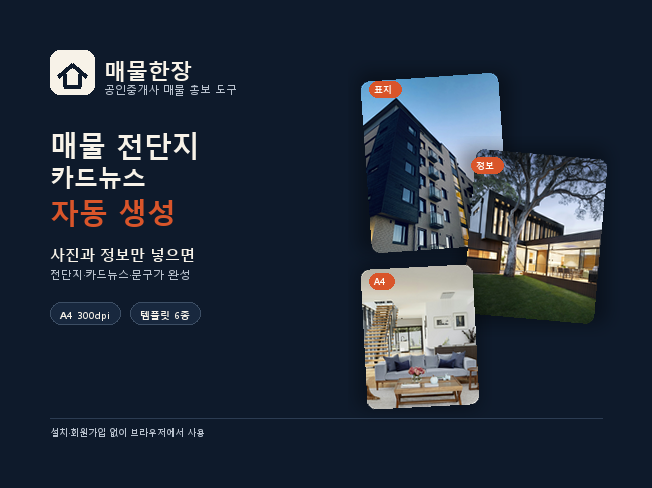
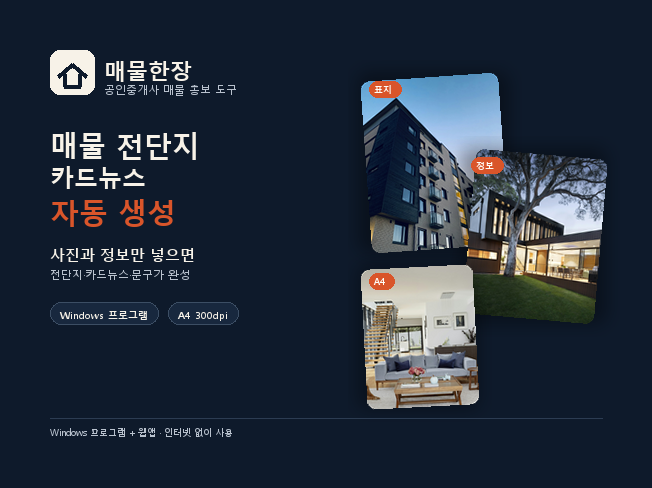
Polish program-focused copy and regenerate marketing images

Changed region(s): [[0.092, 0.6148, 0.3681, 0.6762], [0.0613, 0.8607, 0.3681, 0.8914]]

diff --git a/index.html b/index.html
@@ -3,8 +3,8 @@
 <head>
   <meta charset="utf-8">
   <meta name="viewport" content="width=device-width, initial-scale=1">
-  <title>매물한장 | 공인중개사 매물 전단지·카드뉴스 1분 완성</title>
-  <meta name="description" content="매물 사진과 정보만 넣으면 인스타 카드뉴스, A4 전단지, 문자·블로그 홍보 문구가 1분 만에 완성됩니다. 설치·회원가입 없이 브라우저에서 무료로 시작하세요.">
+  <title>매물한장 | 공인중개사 매물 전단지·카드뉴스 프로그램</title>
+  <meta name="description" content="매물 사진과 정보만 넣으면 인스타 카드뉴스, A4 전단지, 문자·블로그 홍보 문구를 만들 수 있습니다. Windows 프로그램은 인터넷 없이, 웹앱은 설치 없이 사용하세요.">
   <meta name="keywords" content="부동산 전단지, 매물 전단지, 부동산 카드뉴스, 공인중개사 마케팅, 매물 홍보 문구, 아파트 전단지 양식">
   <meta name="robots" content="index,follow">
   <link rel="canonical" href="https://sakata1311-jpg.github.io/maemulhanjang/">
@@ -12,12 +12,12 @@
   <meta property="og:locale" content="ko_KR">
   <meta property="og:site_name" content="매물한장">
   <meta property="og:title" content="매물한장 | 매물 사진 한 장으로, 오늘 올릴 전단지까지">
-  <meta property="og:description" content="인스타 카드뉴스, A4 전단지, 홍보 문구를 1분 만에. 공인중개사를 위한 매물 홍보 도구.">
+  <meta property="og:description" content="인스타 카드뉴스, A4 전단지, 홍보 문구를 한 번에. 공인중개사를 위한 매물 홍보 프로그램.">
   <meta property="og:url" content="https://sakata1311-jpg.github.io/maemulhanjang/">
   <meta property="og:image" content="https://sakata1311-jpg.github.io/maemulhanjang/assets/img/og.png">
   <meta name="twitter:card" content="summary_large_image">
   <meta name="twitter:title" content="매물한장 | 매물 사진 한 장으로, 오늘 올릴 전단지까지">
-  <meta name="twitter:description" content="인스타 카드뉴스, A4 전단지, 홍보 문구를 1분 만에.">
+  <meta name="twitter:description" content="인스타 카드뉴스, A4 전단지, 홍보 문구를 한 번에.">
   <meta name="twitter:image" content="https://sakata1311-jpg.github.io/maemulhanjang/assets/img/og.png">
   <meta name="theme-color" content="#0e1a2b">
   <link rel="icon" href="assets/img/favicon.svg" type="image/svg+xml">
@@ -82,13 +82,13 @@
         <div class="hero-copy">
           <div class="hero-badge"><span class="dot">1</span> 공인중개사를 위한 매물 홍보 도구 <span class="badge badge--accent">BETA</span></div>
           <h1>매물 사진 한 장으로,<br>오늘 올릴<br><em>전단지까지.</em></h1>
-          <p class="lead">매물 정보를 입력하면 인스타 카드뉴스, A4 전단지, 문자·블로그 홍보 문구가 1분 만에 완성됩니다. 설치도, 회원가입도 필요 없습니다.</p>
+          <p class="lead">매물 정보를 입력하면 인스타 카드뉴스, A4 전단지, 문자·블로그 홍보 문구가 자동으로 구성됩니다. Windows 프로그램은 인터넷 없이, 웹앱은 설치 없이 사용할 수 있습니다.</p>
           <div class="hero-actions">
             <a class="btn btn-primary btn-lg" href="app.html" data-track="cta_hero_primary" data-track-location="hero">무료로 만들어보기 <span class="arrow">→</span></a>
             <a class="btn btn-ghost btn-lg" href="templates.html" data-track="cta_template" data-track-location="hero">템플릿 둘러보기</a>
           </div>
           <ul class="hero-points">
-            <li>브라우저에서만 동작</li>
+            <li>Windows 프로그램 + 웹앱</li>
             <li>매물 정보 외부 전송 없음</li>
             <li>무료 플랜 제공</li>
           </ul>
@@ -109,7 +109,7 @@
               </div>
             </div>
           </div>
-          <div class="hero-sticker hero-sticker--one"><span class="ico">✓</span><span>1분 완성<small>정보 입력부터 저장까지</small></span></div>
+          <div class="hero-sticker hero-sticker--one"><span class="ico">✓</span><span>3장 자동 구성<small>표지·정보·연락처</small></span></div>
           <div class="hero-sticker hero-sticker--two"><span class="ico">A4</span><span>300dpi 전단지<small>바로 인쇄 가능</small></span></div>
           <div class="hero-sticker hero-sticker--three"><span class="ico">文</span><span>문구 자동 완성<small>문자·블로그·캡션</small></span></div>
         </div>
@@ -119,7 +119,7 @@
     <!-- Trust strip -->
     <div class="trust">
       <div class="wrap trust-inner">
-        <div class="trust-item"><b>0초</b> 설치·회원가입</div>
+        <div class="trust-item"><b>웹앱</b> 설치·회원가입 없음</div>
         <div class="trust-item"><b>300dpi</b> A4 인쇄용 출력</div>
         <div class="trust-item"><b>4:5 · 1:1</b> SNS 규격 지원</div>
         <div class="trust-item"><b>로컬 저장</b> 매물 정보 외부 전송 없음</div>
@@ -324,7 +324,7 @@
         <div class="grid grid-3 reveal">
           <article class="card">
             <span class="badge badge--accent">신규 매물</span>
-            <h3 style="margin-top:16px">사진 3장, 3분이면<br>첫 게시물 완성</h3>
+            <h3 style="margin-top:16px">사진 3장으로<br>첫 게시물 완성</h3>
             <p>아파트 매물의 가격·면적·층·특징을 넣고 템플릿만 고르세요. 표지부터 연락처까지 한 번에 나옵니다.</p>
           </article>
           <article class="card">
@@ -467,7 +467,7 @@
             <img class="brand-mark" src="assets/img/logo-mark.svg" alt="" width="38" height="38">
             <span class="brand-word"><strong style="color:var(--paper)">매물한장</strong><span>MAEMUL HANJANG</span></span>
           </a>
-          <p>공인중개사의 매물 홍보를 1분으로 줄이는 도구. 브라우저에서만 동작하고, 매물 정보는 외부로 전송되지 않습니다.</p>
+          <p>공인중개사의 매물 홍보 시간을 줄이는 도구. Windows 프로그램과 브라우저에서 동작하고, 매물 정보는 외부로 전송되지 않습니다.</p>
         </div>
         <div class="footer-col">
           <h4>제품</h4>

diff --git a/blog/realtor-instagram-cardnews.html b/blog/realtor-instagram-cardnews.html
@@ -27,7 +27,7 @@
   <link rel="preconnect" href="https://fonts.googleapis.com">
   <link rel="preconnect" href="https://fonts.gstatic.com" crossorigin>
   <link href="https://fonts.googleapis.com/css2?family=Noto+Serif+KR:wght@500;600;700;900&display=swap" rel="stylesheet">
-  <link rel="stylesheet" href="../assets/css/site.css?v=20261107b">
+  <link rel="stylesheet" href="../assets/css/site.css">
 </head>
 <body>
   <a class="skip-link" href="#main">본문으로 바로가기</a>
@@ -146,7 +146,7 @@
       <div class="post-cta">
         <div>
           <h2>오늘 매물, 오늘 홍보하세요.</h2>
-          <p>매물 정보와 사진만 넣으면 카드뉴스·A4 전단지·문구가 1분 만에 완성됩니다.</p>
+          <p>매물 정보와 사진만 넣으면 카드뉴스·A4 전단지·문구를 만들 수 있습니다.</p>
         </div>
         <a class="btn btn-primary" href="../app.html">무료로 만들어보기 <span class="arrow">→</span></a>
       </div>
@@ -174,7 +174,7 @@
             <img class="brand-mark" src="../assets/img/logo-mark.svg" alt="" width="38" height="38">
             <span class="brand-word"><strong style="color:var(--paper)">매물한장</strong><span>MAEMUL HANJANG</span></span>
           </a>
-          <p>공인중개사의 매물 홍보를 1분으로 줄이는 도구. 브라우저에서만 동작하고, 매물 정보는 외부로 전송되지 않습니다.</p>
+          <p>공인중개사의 매물 홍보 시간을 줄이는 도구. Windows 프로그램과 브라우저에서 동작하고, 매물 정보는 외부로 전송되지 않습니다.</p>
         </div>
         <div class="footer-col"><h4>제품</h4><a href="../app.html">매물 만들기</a><a href="../templates.html">템플릿</a><a href="../pricing.html">요금</a><a href="../guide.html">사용법</a></div>
         <div class="footer-col"><h4>자료</h4><a href="../blog/index.html">블로그</a><a href="../blog/realtor-instagram-cardnews.html">인스타 카드뉴스 가이드</a><a href="../blog/flyer-required-disclosures.html">광고 표기 체크리스트</a></div>
@@ -186,8 +186,8 @@
       </div>
     </div>
   </footer>
-  <script src="../assets/js/config.js?v=20261107b"></script>
-  <script src="../assets/js/common.js?v=20261107b"></script>
+  <script src="../assets/js/config.js"></script>
+  <script src="../assets/js/common.js"></script>
   <script type="application/ld+json">{"@context": "https://schema.org", "@type": "BlogPosting", "headline": "공인중개사 인스타 카드뉴스, 3장으로 끝내는 법", "description": "매물 사진만 올리지 말고 표지·정보·연락처 3장으로 나눠보세요. 오늘 바로 쓸 수 있는 카드뉴스 구성과 문구 예시를 정리했습니다.", "image": "https://maemulhanjang.com/assets/img/samples/apartment-1.jpg", "datePublished": "2026-10-28", "dateModified": "2026-10-28", "author": {"@type": "Organization", "name": "매물한장 편집부"}, "publisher": {"@type": "Organization", "name": "매물한장", "logo": {"@type": "ImageObject", "url": "https://maemulhanjang.com/assets/img/logo-mark.svg"}}, "mainEntityOfPage": {"@type": "WebPage", "@id": "https://maemulhanjang.com/blog/realtor-instagram-cardnews.html"}, "articleSection": "인스타그램", "inLanguage": "ko-KR"}</script>
   <script type="application/ld+json">{"@context": "https://schema.org", "@type": "BreadcrumbList", "itemListElement": [{"@type": "ListItem", "position": 1, "name": "홈", "item": "https://maemulhanjang.com/"}, {"@type": "ListItem", "position": 2, "name": "블로그", "item": "https://maemulhanjang.com/blog/"}, {"@type": "ListItem", "position": 3, "name": "공인중개사 인스타 카드뉴스, 3장으로 끝내는 법", "item": "https://maemulhanjang.com/blog/realtor-instagram-cardnews.html"}]}</script>
 </body>

diff --git a/blog/flyer-required-disclosures.html b/blog/flyer-required-disclosures.html
@@ -27,7 +27,7 @@
   <link rel="preconnect" href="https://fonts.googleapis.com">
   <link rel="preconnect" href="https://fonts.gstatic.com" crossorigin>
   <link href="https://fonts.googleapis.com/css2?family=Noto+Serif+KR:wght@500;600;700;900&display=swap" rel="stylesheet">
-  <link rel="stylesheet" href="../assets/css/site.css?v=20261107b">
+  <link rel="stylesheet" href="../assets/css/site.css">
 </head>
 <body>
   <a class="skip-link" href="#main">본문으로 바로가기</a>
@@ -141,7 +141,7 @@
       <div class="post-cta">
         <div>
           <h2>오늘 매물, 오늘 홍보하세요.</h2>
-          <p>매물 정보와 사진만 넣으면 카드뉴스·A4 전단지·문구가 1분 만에 완성됩니다.</p>
+          <p>매물 정보와 사진만 넣으면 카드뉴스·A4 전단지·문구를 만들 수 있습니다.</p>
         </div>
         <a class="btn btn-primary" href="../app.html">무료로 만들어보기 <span class="arrow">→</span></a>
       </div>
@@ -169,7 +169,7 @@
             <img class="brand-mark" src="../assets/img/logo-mark.svg" alt="" width="38" height="38">
             <span class="brand-word"><strong style="color:var(--paper)">매물한장</strong><span>MAEMUL HANJANG</span></span>
           </a>
-          <p>공인중개사의 매물 홍보를 1분으로 줄이는 도구. 브라우저에서만 동작하고, 매물 정보는 외부로 전송되지 않습니다.</p>
+          <p>공인중개사의 매물 홍보 시간을 줄이는 도구. Windows 프로그램과 브라우저에서 동작하고, 매물 정보는 외부로 전송되지 않습니다.</p>
         </div>
         <div class="footer-col"><h4>제품</h4><a href="../app.html">매물 만들기</a><a href="../templates.html">템플릿</a><a href="../pricing.html">요금</a><a href="../guide.html">사용법</a></div>
         <div class="footer-col"><h4>자료</h4><a href="../blog/index.html">블로그</a><a href="../blog/realtor-instagram-cardnews.html">인스타 카드뉴스 가이드</a><a href="../blog/flyer-required-disclosures.html">광고 표기 체크리스트</a></div>
@@ -181,8 +181,8 @@
       </div>
     </div>
   </footer>
-  <script src="../assets/js/config.js?v=20261107b"></script>
-  <script src="../assets/js/common.js?v=20261107b"></script>
+  <script src="../assets/js/config.js"></script>
+  <script src="../assets/js/common.js"></script>
   <script type="application/ld+json">{"@context": "https://schema.org", "@type": "BlogPosting", "headline": "부동산 전단지, 이 표기 없으면 다시 만들어야 합니다", "description": "중개사무소 명칭부터 등록번호까지. 부동산 전단지를 만들기 전에 확인해야 할 기본 표기와 과장 표현 체크리스트.", "image": "https://maemulhanjang.com/assets/img/samples/house-1.jpg", "datePublished": "2026-10-21", "dateModified": "2026-10-21", "author": {"@type": "Organization", "name": "매물한장 편집부"}, "publisher": {"@type": "Organization", "name": "매물한장", "logo": {"@type": "ImageObject", "url": "https://maemulhanjang.com/assets/img/logo-mark.svg"}}, "mainEntityOfPage": {"@type": "WebPage", "@id": "https://maemulhanjang.com/blog/flyer-required-disclosures.html"}, "articleSection": "광고 표기", "inLanguage": "ko-KR"}</script>
   <script type="application/ld+json">{"@context": "https://schema.org", "@type": "BreadcrumbList", "itemListElement": [{"@type": "ListItem", "position": 1, "name": "홈", "item": "https://maemulhanjang.com/"}, {"@type": "ListItem", "position": 2, "name": "블로그", "item": "https://maemulhanjang.com/blog/"}, {"@type": "ListItem", "position": 3, "name": "부동산 전단지, 이 표기 없으면 다시 만들어야 합니다", "item": "https://maemulhanjang.com/blog/flyer-required-disclosures.html"}]}</script>
 </body>

diff --git a/blog/listing-copy-guide.html b/blog/listing-copy-guide.html
@@ -27,7 +27,7 @@
   <link rel="preconnect" href="https://fonts.googleapis.com">
   <link rel="preconnect" href="https://fonts.gstatic.com" crossorigin>
   <link href="https://fonts.googleapis.com/css2?family=Noto+Serif+KR:wght@500;600;700;900&display=swap" rel="stylesheet">
-  <link rel="stylesheet" href="../assets/css/site.css?v=20261107b">
+  <link rel="stylesheet" href="../assets/css/site.css">
 </head>
 <body>
   <a class="skip-link" href="#main">본문으로 바로가기</a>
@@ -135,7 +135,7 @@
       <div class="post-cta">
         <div>
           <h2>오늘 매물, 오늘 홍보하세요.</h2>
-          <p>매물 정보와 사진만 넣으면 카드뉴스·A4 전단지·문구가 1분 만에 완성됩니다.</p>
+          <p>매물 정보와 사진만 넣으면 카드뉴스·A4 전단지·문구를 만들 수 있습니다.</p>
         </div>
         <a class="btn btn-primary" href="../app.html">무료로 만들어보기 <span class="arrow">→</span></a>
       </div>
@@ -163,7 +163,7 @@
             <img class="brand-mark" src="../assets/img/logo-mark.svg" alt="" width="38" height="38">
             <span class="brand-word"><strong style="color:var(--paper)">매물한장</strong><span>MAEMUL HANJANG</span></span>
           </a>
-          <p>공인중개사의 매물 홍보를 1분으로 줄이는 도구. 브라우저에서만 동작하고, 매물 정보는 외부로 전송되지 않습니다.</p>
+          <p>공인중개사의 매물 홍보 시간을 줄이는 도구. Windows 프로그램과 브라우저에서 동작하고, 매물 정보는 외부로 전송되지 않습니다.</p>
         </div>
         <div class="footer-col"><h4>제품</h4><a href="../app.html">매물 만들기</a><a href="../templates.html">템플릿</a><a href="../pricing.html">요금</a><a href="../guide.html">사용법</a></div>
         <div class="footer-col"><h4>자료</h4><a href="../blog/index.html">블로그</a><a href="../blog/realtor-instagram-cardnews.html">인스타 카드뉴스 가이드</a><a href="../blog/flyer-required-disclosures.html">광고 표기 체크리스트</a></div>
@@ -175,8 +175,8 @@
       </div>
     </div>
   </footer>
-  <script src="../assets/js/config.js?v=20261107b"></script>
-  <script src="../assets/js/common.js?v=20261107b"></script>
+  <script src="../assets/js/config.js"></script>
+  <script src="../assets/js/common.js"></script>
   <script type="application/ld+json">{"@context": "https://schema.org", "@type": "BlogPosting", "headline": "매물 소개 문구, 이 순서로 쓰면 달라집니다", "description": "스펙 나열에서 끝내지 말고 고객이 궁금해하는 순서로. 아파트·빌라·상가 예시와 문자·블로그 활용법.", "image": "https://maemulhanjang.com/assets/img/samples/bedroom-1.jpg", "datePublished": "2026-10-14", "dateModified": "2026-10-14", "author": {"@type": "Organization", "name": "매물한장 편집부"}, "publisher": {"@type": "Organization", "name": "매물한장", "logo": {"@type": "ImageObject", "url": "https://maemulhanjang.com/assets/img/logo-mark.svg"}}, "mainEntityOfPage": {"@type": "WebPage", "@id": "https://maemulhanjang.com/blog/listing-copy-guide.html"}, "articleSection": "문구 작성", "inLanguage": "ko-KR"}</script>
   <script type="application/ld+json">{"@context": "https://schema.org", "@type": "BreadcrumbList", "itemListElement": [{"@type": "ListItem", "position": 1, "name": "홈", "item": "https://maemulhanjang.com/"}, {"@type": "ListItem", "position": 2, "name": "블로그", "item": "https://maemulhanjang.com/blog/"}, {"@type": "ListItem", "position": 3, "name": "매물 소개 문구, 이 순서로 쓰면 달라집니다", "item": "https://maemulhanjang.com/blog/listing-copy-guide.html"}]}</script>
 </body>

diff --git a/blog/qr-code-real-estate.html b/blog/qr-code-real-estate.html
@@ -27,7 +27,7 @@
   <link rel="preconnect" href="https://fonts.googleapis.com">
   <link rel="preconnect" href="https://fonts.gstatic.com" crossorigin>
   <link href="https://fonts.googleapis.com/css2?family=Noto+Serif+KR:wght@500;600;700;900&display=swap" rel="stylesheet">
-  <link rel="stylesheet" href="../assets/css/site.css?v=20261107b">
+  <link rel="stylesheet" href="../assets/css/site.css">
 </head>
 <body>
   <a class="skip-link" href="#main">본문으로 바로가기</a>
@@ -137,7 +137,7 @@
       <div class="post-cta">
         <div>
           <h2>오늘 매물, 오늘 홍보하세요.</h2>
-          <p>매물 정보와 사진만 넣으면 카드뉴스·A4 전단지·문구가 1분 만에 완성됩니다.</p>
+          <p>매물 정보와 사진만 넣으면 카드뉴스·A4 전단지·문구를 만들 수 있습니다.</p>
         </div>
         <a class="btn btn-primary" href="../app.html">무료로 만들어보기 <span class="arrow">→</span></a>
       </div>
@@ -165,7 +165,7 @@
             <img class="brand-mark" src="../assets/img/logo-mark.svg" alt="" width="38" height="38">
             <span class="brand-word"><strong style="color:var(--paper)">매물한장</strong><span>MAEMUL HANJANG</span></span>
           </a>
-          <p>공인중개사의 매물 홍보를 1분으로 줄이는 도구. 브라우저에서만 동작하고, 매물 정보는 외부로 전송되지 않습니다.</p>
+          <p>공인중개사의 매물 홍보 시간을 줄이는 도구. Windows 프로그램과 브라우저에서 동작하고, 매물 정보는 외부로 전송되지 않습니다.</p>
         </div>
         <div class="footer-col"><h4>제품</h4><a href="../app.html">매물 만들기</a><a href="../templates.html">템플릿</a><a href="../pricing.html">요금</a><a href="../guide.html">사용법</a></div>
         <div class="footer-col"><h4>자료</h4><a href="../blog/index.html">블로그</a><a href="../blog/realtor-instagram-cardnews.html">인스타 카드뉴스 가이드</a><a href="../blog/flyer-required-disclosures.html">광고 표기 체크리스트</a></div>
@@ -177,8 +177,8 @@
       </div>
     </div>
   </footer>
-  <script src="../assets/js/config.js?v=20261107b"></script>
-  <script src="../assets/js/common.js?v=20261107b"></script>
+  <script src="../assets/js/config.js"></script>
+  <script src="../assets/js/common.js"></script>
   <script type="application/ld+json">{"@context": "https://schema.org", "@type": "BlogPosting", "headline": "부동산 QR 코드, 어디에 어떻게 넣어야 할까", "description": "전단지·명함·창문 포스터에 QR을 넣는 방법과 연결 페이지 설계, 인쇄 크기, 주의사항을 정리합니다.", "image": "https://maemulhanjang.com/assets/img/samples/living-1.jpg", "datePublished": "2026-09-23", "dateModified": "2026-09-23", "author": {"@type": "Organization", "name": "매물한장 편집부"}, "publisher": {"@type": "Organization", "name": "매물한장", "logo": {"@type": "ImageObject", "url": "https://maemulhanjang.com/assets/img/logo-mark.svg"}}, "mainEntityOfPage": {"@type": "WebPage", "@id": "https://maemulhanjang.com/blog/qr-code-real-estate.html"}, "articleSection": "오프라인", "inLanguage": "ko-KR"}</script>
   <script type="application/ld+json">{"@context": "https://schema.org", "@type": "BreadcrumbList", "itemListElement": [{"@type": "ListItem", "position": 1, "name": "홈", "item": "https://maemulhanjang.com/"}, {"@type": "ListItem", "position": 2, "name": "블로그", "item": "https://maemulhanjang.com/blog/"}, {"@type": "ListItem", "position": 3, "name": "부동산 QR 코드, 어디에 어떻게 넣어야 할까", "item": "https://maemulhanjang.com/blog/qr-code-real-estate.html"}]}</script>
 </body>

diff --git a/blog/a4-flyer-print-guide.html b/blog/a4-flyer-print-guide.html
@@ -27,7 +27,7 @@
   <link rel="preconnect" href="https://fonts.googleapis.com">
   <link rel="preconnect" href="https://fonts.gstatic.com" crossorigin>
   <link href="https://fonts.googleapis.com/css2?family=Noto+Serif+KR:wght@500;600;700;900&display=swap" rel="stylesheet">
-  <link rel="stylesheet" href="../assets/css/site.css?v=20261107b">
+  <link rel="stylesheet" href="../assets/css/site.css">
 </head>
 <body>
   <a class="skip-link" href="#main">본문으로 바로가기</a>
@@ -133,7 +133,7 @@
       <div class="post-cta">
         <div>
           <h2>오늘 매물, 오늘 홍보하세요.</h2>
-          <p>매물 정보와 사진만 넣으면 카드뉴스·A4 전단지·문구가 1분 만에 완성됩니다.</p>
+          <p>매물 정보와 사진만 넣으면 카드뉴스·A4 전단지·문구를 만들 수 있습니다.</p>
         </div>
         <a class="btn btn-primary" href="../app.html">무료로 만들어보기 <span class="arrow">→</span></a>
       </div>
@@ -161,7 +161,7 @@
             <img class="brand-mark" src="../assets/img/logo-mark.svg" alt="" width="38" height="38">
             <span class="brand-word"><strong style="color:var(--paper)">매물한장</strong><span>MAEMUL HANJANG</span></span>
           </a>
-          <p>공인중개사의 매물 홍보를 1분으로 줄이는 도구. 브라우저에서만 동작하고, 매물 정보는 외부로 전송되지 않습니다.</p>
+          <p>공인중개사의 매물 홍보 시간을 줄이는 도구. Windows 프로그램과 브라우저에서 동작하고, 매물 정보는 외부로 전송되지 않습니다.</p>
         </div>
         <div class="footer-col"><h4>제품</h4><a href="../app.html">매물 만들기</a><a href="../templates.html">템플릿</a><a href="../pricing.html">요금</a><a href="../guide.html">사용법</a></div>
         <div class="footer-col"><h4>자료</h4><a href="../blog/index.html">블로그</a><a href="../blog/realtor-instagram-cardnews.html">인스타 카드뉴스 가이드</a><a href="../blog/flyer-required-disclosures.html">광고 표기 체크리스트</a></div>
@@ -173,8 +173,8 @@
       </div>
     </div>
   </footer>
-  <script src="../assets/js/config.js?v=20261107b"></script>
-  <script src="../assets/js/common.js?v=20261107b"></script>
+  <script src="../assets/js/config.js"></script>
+  <script src="../assets/js/common.js"></script>
   <script type="application/ld+json">{"@context": "https://schema.org", "@type": "BlogPosting", "headline": "A4 매물 전단지, 300dpi로 깨지지 않게 인쇄하는 법", "description": "해상도, 여백, 용지, 인쇄 설정까지. 사무소 창문과 배포용 전단지를 제대로 출력하는 방법.", "image": "https://maemulhanjang.com/assets/img/samples/kitchen-1.jpg", "datePublished": "2026-10-07", "dateModified": "2026-10-07", "author": {"@type": "Organization", "name": "매물한장 편집부"}, "publisher": {"@type": "Organization", "name": "매물한장", "logo": {"@type": "ImageObject", "url": "https://maemulhanjang.com/assets/img/logo-mark.svg"}}, "mainEntityOfPage": {"@type": "WebPage", "@id": "https://maemulhanjang.com/blog/a4-flyer-print-guide.html"}, "articleSection": "인쇄", "inLanguage": "ko-KR"}</script>
   <script type="application/ld+json">{"@context": "https://schema.org", "@type": "BreadcrumbList", "itemListElement": [{"@type": "ListItem", "position": 1, "name": "홈", "item": "https://maemulhanjang.com/"}, {"@type": "ListItem", "position": 2, "name": "블로그", "item": "https://maemulhanjang.com/blog/"}, {"@type": "ListItem", "position": 3, "name": "A4 매물 전단지, 300dpi로 깨지지 않게 인쇄하는 법", "item": "https://maemulhanjang.com/blog/a4-flyer-print-guide.html"}]}</script>
 </body>

diff --git a/blog/naver-blog-listing-post.html b/blog/naver-blog-listing-post.html
@@ -27,7 +27,7 @@
   <link rel="preconnect" href="https://fonts.googleapis.com">
   <link rel="preconnect" href="https://fonts.gstatic.com" crossorigin>
   <link href="https://fonts.googleapis.com/css2?family=Noto+Serif+KR:wght@500;600;700;900&display=swap" rel="stylesheet">
-  <link rel="stylesheet" href="../assets/css/site.css?v=20261107b">
+  <link rel="stylesheet" href="../assets/css/site.css">
 </head>
 <body>
   <a class="skip-link" href="#main">본문으로 바로가기</a>
@@ -134,7 +134,7 @@
       <div class="post-cta">
         <div>
           <h2>오늘 매물, 오늘 홍보하세요.</h2>
-          <p>매물 정보와 사진만 넣으면 카드뉴스·A4 전단지·문구가 1분 만에 완성됩니다.</p>
+          <p>매물 정보와 사진만 넣으면 카드뉴스·A4 전단지·문구를 만들 수 있습니다.</p>
         </div>
         <a class="btn btn-primary" href="../app.html">무료로 만들어보기 <span class="arrow">→</span></a>
       </div>
@@ -162,7 +162,7 @@
             <img class="brand-mark" src="../assets/img/logo-mark.svg" alt="" width="38" height="38">
             <span class="brand-word"><strong style="color:var(--paper)">매물한장</strong><span>MAEMUL HANJANG</span></span>
           </a>
-          <p>공인중개사의 매물 홍보를 1분으로 줄이는 도구. 브라우저에서만 동작하고, 매물 정보는 외부로 전송되지 않습니다.</p>
+          <p>공인중개사의 매물 홍보 시간을 줄이는 도구. Windows 프로그램과 브라우저에서 동작하고, 매물 정보는 외부로 전송되지 않습니다.</p>
         </div>
         <div class="footer-col"><h4>제품</h4><a href="../app.html">매물 만들기</a><a href="../templates.html">템플릿</a><a href="../pricing.html">요금</a><a href="../guide.html">사용법</a></div>
         <div class="footer-col"><h4>자료</h4><a href="../blog/index.html">블로그</a><a href="../blog/realtor-instagram-cardnews.html">인스타 카드뉴스 가이드</a><a href="../blog/flyer-required-disclosures.html">광고 표기 체크리스트</a></div>
@@ -174,8 +174,8 @@
       </div>
     </div>
   </footer>
-  <script src="../assets/js/config.js?v=20261107b"></script>
-  <script src="../assets/js/common.js?v=20261107b"></script>
+  <script src="../assets/js/config.js"></script>
+  <script src="../assets/js/common.js"></script>
   <script type="application/ld+json">{"@context": "https://schema.org", "@type": "BlogPosting", "headline": "네이버 블로그에 매물 글 쓰는 구조", "description": "검색과 신뢰를 동시에 잡는 매물 블로그 글. 제목, 사진, 정보 표, 동네 이야기, 문의까지 순서대로 정리합니다.", "image": "https://maemulhanjang.com/assets/img/samples/city-1.jpg", "datePublished": "2026-09-30", "dateModified": "2026-09-30", "author": {"@type": "Organization", "name": "매물한장 편집부"}, "publisher": {"@type": "Organization", "name": "매물한장", "logo": {"@type": "ImageObject", "url": "https://maemulhanjang.com/assets/img/logo-mark.svg"}}, "mainEntityOfPage": {"@type": "WebPage", "@id": "https://maemulhanjang.com/blog/naver-blog-listing-post.html"}, "articleSection": "블로그", "inLanguage": "ko-KR"}</script>
   <script type="application/ld+json">{"@context": "https://schema.org", "@type": "BreadcrumbList", "itemListElement": [{"@type": "ListItem", "position": 1, "name": "홈", "item": "https://maemulhanjang.com/"}, {"@type": "ListItem", "position": 2, "name": "블로그", "item": "https://maemulhanjang.com/blog/"}, {"@type": "ListItem", "position": 3, "name": "네이버 블로그에 매물 글 쓰는 구조", "item": "https://maemulhanjang.com/blog/naver-blog-listing-post.html"}]}</script>
 </body>

diff --git a/blog/index.html b/blog/index.html
@@ -24,7 +24,7 @@
   <link rel="preconnect" href="https://fonts.googleapis.com">
   <link rel="preconnect" href="https://fonts.gstatic.com" crossorigin>
   <link href="https://fonts.googleapis.com/css2?family=Noto+Serif+KR:wght@500;600;700;900&display=swap" rel="stylesheet">
-  <link rel="stylesheet" href="../assets/css/site.css?v=20261107b">
+  <link rel="stylesheet" href="../assets/css/site.css">
 </head>
 <body>
   <a class="skip-link" href="#main">본문으로 바로가기</a>
@@ -133,7 +133,7 @@
     </section>
     <section class="cta-band">
       <div class="wrap cta-inner">
-        <div><h2>읽는 것에서 끝내지 말고,<br>오늘 바로 만들어보세요.</h2><p>샘플 매물로 1분 만에 결과물을 확인할 수 있습니다.</p></div>
+        <div><h2>읽는 것에서 끝내지 말고,<br>오늘 바로 만들어보세요.</h2><p>샘플 매물로 결과물을 확인할 수 있습니다.</p></div>
         <div class="cta-actions"><a class="btn btn-primary btn-lg" href="../app.html">무료로 만들기 <span class="arrow">→</span></a><a class="btn btn-outline-light btn-lg" href="../pricing.html">요금 보기</a></div>
       </div>
     </section>
@@ -146,7 +146,7 @@
             <img class="brand-mark" src="../assets/img/logo-mark.svg" alt="" width="38" height="38">
             <span class="brand-word"><strong style="color:var(--paper)">매물한장</strong><span>MAEMUL HANJANG</span></span>
           </a>
-          <p>공인중개사의 매물 홍보를 1분으로 줄이는 도구. 브라우저에서만 동작하고, 매물 정보는 외부로 전송되지 않습니다.</p>
+          <p>공인중개사의 매물 홍보 시간을 줄이는 도구. Windows 프로그램과 브라우저에서 동작하고, 매물 정보는 외부로 전송되지 않습니다.</p>
         </div>
         <div class="footer-col"><h4>제품</h4><a href="../app.html">매물 만들기</a><a href="../templates.html">템플릿</a><a href="../pricing.html">요금</a><a href="../guide.html">사용법</a></div>
         <div class="footer-col"><h4>자료</h4><a href="../blog/index.html">블로그</a><a href="../blog/realtor-instagram-cardnews.html">인스타 카드뉴스 가이드</a><a href="../blog/flyer-required-disclosures.html">광고 표기 체크리스트</a></div>
@@ -158,8 +158,8 @@
       </div>
     </div>
   </footer>
-  <script src="../assets/js/config.js?v=20261107b"></script>
-  <script src="../assets/js/common.js?v=20261107b"></script>
+  <script src="../assets/js/config.js"></script>
+  <script src="../assets/js/common.js"></script>
   <script type="application/ld+json">{"@context": "https://schema.org", "@type": "Blog", "name": "매물한장 블로그", "url": "https://maemulhanjang.com/blog/", "description": "공인중개사를 위한 매물 홍보·전단지·카드뉴스·블로그 마케팅 가이드"}</script>
 </body>
 </html>

diff --git a/templates.html b/templates.html
@@ -9,7 +9,7 @@
   <link rel="canonical" href="https://sakata1311-jpg.github.io/maemulhanjang/templates.html">
   <meta property="og:type" content="website">
   <meta property="og:title" content="템플릿 | 매물한장">
-  <meta property="og:description" content="매물의 성격에 맞는 6가지 디자인. 전단지와 카드뉴스를 1분 만에.">
+  <meta property="og:description" content="매물의 성격에 맞는 6가지 디자인. 전단지와 카드뉴스를 한 번에.">
   <meta property="og:image" content="https://sakata1311-jpg.github.io/maemulhanjang/assets/img/og.png">
   <meta name="theme-color" content="#0e1a2b">
   <link rel="icon" href="assets/img/favicon.svg" type="image/svg+xml">
@@ -165,7 +165,7 @@
       <div class="footer-top">
         <div class="footer-brand">
           <a class="brand" href="index.html" aria-label="매물한장 홈"><img class="brand-mark" src="assets/img/logo-mark.svg" alt="" width="38" height="38"><span class="brand-word"><strong style="color:var(--paper)">매물한장</strong><span>MAEMUL HANJANG</span></span></a>
-          <p>공인중개사의 매물 홍보를 1분으로 줄이는 도구. 브라우저에서만 동작하고, 매물 정보는 외부로 전송되지 않습니다.</p>
+          <p>공인중개사의 매물 홍보 시간을 줄이는 도구. Windows 프로그램과 브라우저에서 동작하고, 매물 정보는 외부로 전송되지 않습니다.</p>
         </div>
         <div class="footer-col"><h4>제품</h4><a href="app.html">매물 만들기</a><a href="templates.html">템플릿</a><a href="pricing.html">요금</a><a href="guide.html">사용법</a></div>
         <div class="footer-col"><h4>자료</h4><a href="blog/index.html">블로그</a><a href="blog/realtor-instagram-cardnews.html">인스타 카드뉴스 가이드</a><a href="blog/flyer-required-disclosures.html">광고 표기 체크리스트</a></div>

diff --git a/legal/privacy.html b/legal/privacy.html
@@ -97,7 +97,7 @@
   <footer class="site-footer">
     <div class="wrap">
       <div class="footer-top">
-        <div class="footer-brand"><a class="brand" href="../index.html" aria-label="매물한장 홈"><img class="brand-mark" src="../assets/img/logo-mark.svg" alt="" width="38" height="38"><span class="brand-word"><strong style="color:var(--paper)">매물한장</strong><span>MAEMUL HANJANG</span></span></a><p>공인중개사의 매물 홍보를 1분으로 줄이는 도구. 브라우저에서만 동작하고, 매물 정보는 외부로 전송되지 않습니다.</p></div>
+        <div class="footer-brand"><a class="brand" href="../index.html" aria-label="매물한장 홈"><img class="brand-mark" src="../assets/img/logo-mark.svg" alt="" width="38" height="38"><span class="brand-word"><strong style="color:var(--paper)">매물한장</strong><span>MAEMUL HANJANG</span></span></a><p>공인중개사의 매물 홍보 시간을 줄이는 도구. Windows 프로그램과 브라우저에서 동작하고, 매물 정보는 외부로 전송되지 않습니다.</p></div>
         <div class="footer-col"><h4>제품</h4><a href="../app.html">매물 만들기</a><a href="../templates.html">템플릿</a><a href="../pricing.html">요금</a><a href="../guide.html">사용법</a></div>
         <div class="footer-col"><h4>자료</h4><a href="../blog/index.html">블로그</a><a href="../blog/realtor-instagram-cardnews.html">인스타 카드뉴스 가이드</a><a href="../blog/flyer-required-disclosures.html">광고 표기 체크리스트</a></div>
         <div class="footer-col"><h4>문의</h4><a href="mailto:sakata1311@gmail.com" data-contact-email data-contact-text>sakata1311@gmail.com</a><a href="terms.html">이용약관</a><a href="privacy.html">개인정보처리방침</a></div>

diff --git a/legal/terms.html b/legal/terms.html
@@ -98,7 +98,7 @@
   <footer class="site-footer">
     <div class="wrap">
       <div class="footer-top">
-        <div class="footer-brand"><a class="brand" href="../index.html" aria-label="매물한장 홈"><img class="brand-mark" src="../assets/img/logo-mark.svg" alt="" width="38" height="38"><span class="brand-word"><strong style="color:var(--paper)">매물한장</strong><span>MAEMUL HANJANG</span></span></a><p>공인중개사의 매물 홍보를 1분으로 줄이는 도구. 브라우저에서만 동작하고, 매물 정보는 외부로 전송되지 않습니다.</p></div>
+        <div class="footer-brand"><a class="brand" href="../index.html" aria-label="매물한장 홈"><img class="brand-mark" src="../assets/img/logo-mark.svg" alt="" width="38" height="38"><span class="brand-word"><strong style="color:var(--paper)">매물한장</strong><span>MAEMUL HANJANG</span></span></a><p>공인중개사의 매물 홍보 시간을 줄이는 도구. Windows 프로그램과 브라우저에서 동작하고, 매물 정보는 외부로 전송되지 않습니다.</p></div>
         <div class="footer-col"><h4>제품</h4><a href="../app.html">매물 만들기</a><a href="../templates.html">템플릿</a><a href="../pricing.html">요금</a><a href="../guide.html">사용법</a></div>
         <div class="footer-col"><h4>자료</h4><a href="../blog/index.html">블로그</a><a href="../blog/realtor-instagram-cardnews.html">인스타 카드뉴스 가이드</a><a href="../blog/flyer-required-disclosures.html">광고 표기 체크리스트</a></div>
         <div class="footer-col"><h4>문의</h4><a href="mailto:sakata1311@gmail.com" data-contact-email data-contact-text>sakata1311@gmail.com</a><a href="terms.html">이용약관</a><a href="privacy.html">개인정보처리방침</a></div>

diff --git a/guide.html b/guide.html
@@ -153,7 +153,7 @@
   <footer class="site-footer">
     <div class="wrap">
       <div class="footer-top">
-        <div class="footer-brand"><a class="brand" href="index.html" aria-label="매물한장 홈"><img class="brand-mark" src="assets/img/logo-mark.svg" alt="" width="38" height="38"><span class="brand-word"><strong style="color:var(--paper)">매물한장</strong><span>MAEMUL HANJANG</span></span></a><p>공인중개사의 매물 홍보를 1분으로 줄이는 도구. 브라우저에서만 동작하고, 매물 정보는 외부로 전송되지 않습니다.</p></div>
+        <div class="footer-brand"><a class="brand" href="index.html" aria-label="매물한장 홈"><img class="brand-mark" src="assets/img/logo-mark.svg" alt="" width="38" height="38"><span class="brand-word"><strong style="color:var(--paper)">매물한장</strong><span>MAEMUL HANJANG</span></span></a><p>공인중개사의 매물 홍보 시간을 줄이는 도구. Windows 프로그램과 브라우저에서 동작하고, 매물 정보는 외부로 전송되지 않습니다.</p></div>
         <div class="footer-col"><h4>제품</h4><a href="app.html">매물 만들기</a><a href="templates.html">템플릿</a><a href="pricing.html">요금</a><a href="guide.html">사용법</a></div>
         <div class="footer-col"><h4>자료</h4><a href="blog/index.html">블로그</a><a href="blog/realtor-instagram-cardnews.html">인스타 카드뉴스 가이드</a><a href="blog/flyer-required-disclosures.html">광고 표기 체크리스트</a></div>
         <div class="footer-col"><h4>문의</h4><a href="mailto:sakata1311@gmail.com" data-contact-email data-contact-text>sakata1311@gmail.com</a><a href="legal/terms.html">이용약관</a><a href="legal/privacy.html">개인정보처리방침</a></div>
